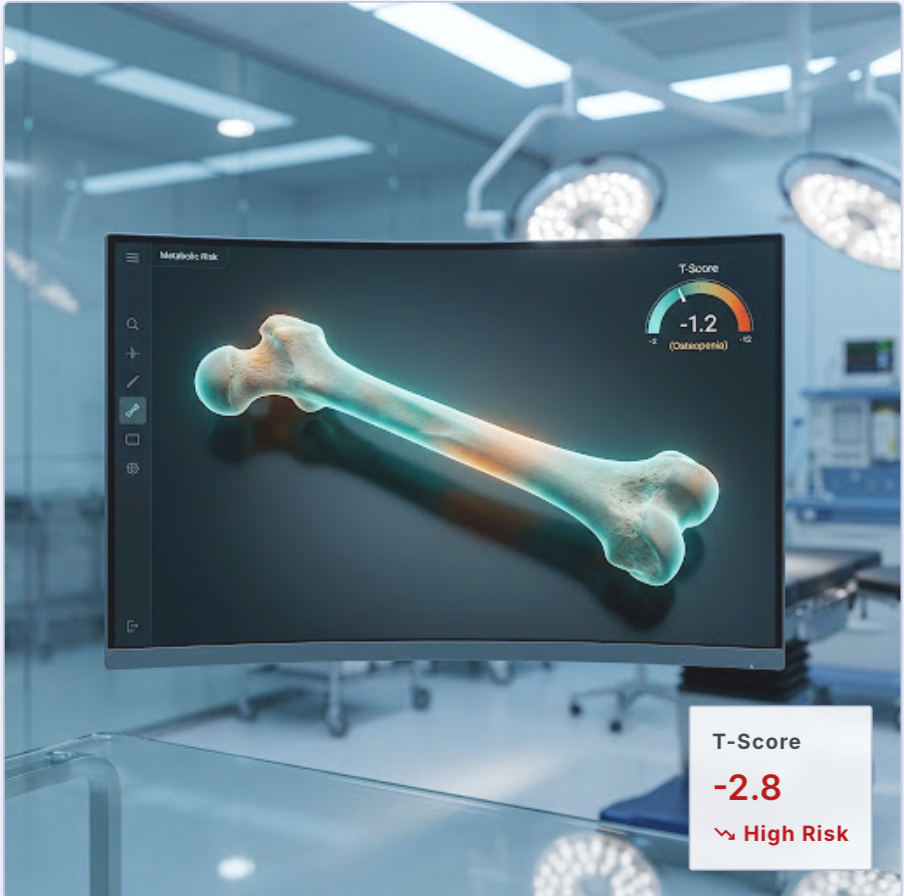
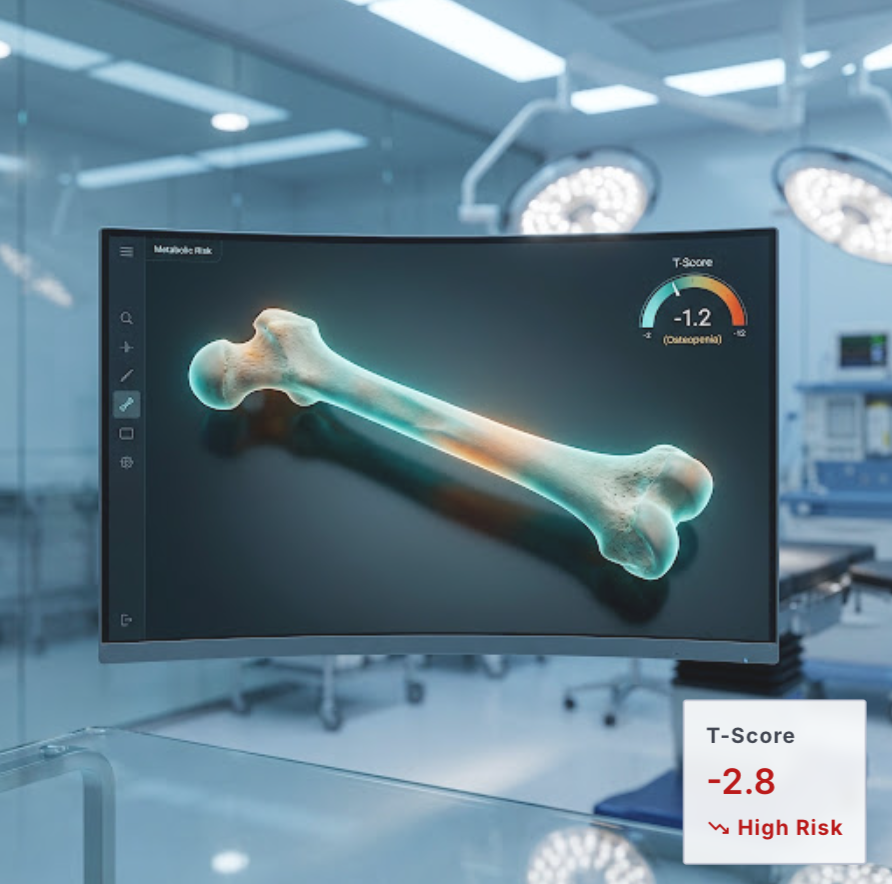
fix(ui): crop white border margins from hero image and apply dark slate wrapper

diff --git a/src/components/views/Landing/LandingView.jsx b/src/components/views/Landing/LandingView.jsx
@@ -106,9 +106,9 @@ export default function LandingView({ onStart }) {
             <div className="absolute -top-10 -left-10 w-56 h-56 bg-blue-400/20 rounded-full blur-3xl" />
             <div className="absolute -bottom-10 -right-10 w-64 h-64 bg-indigo-400/20 rounded-full blur-3xl" />
 
-            <div className="relative bg-white rounded-3xl shadow-2xl shadow-slate-900/15 overflow-hidden border border-slate-200/80 transition-all duration-300 hover:shadow-blue-500/10">
+            <div className="relative bg-slate-950 rounded-3xl shadow-2xl shadow-slate-950/40 overflow-hidden border border-slate-800/90 transition-all duration-300 hover:shadow-blue-500/15">
               {/* Card Window Topbar */}
-              <div className="h-11 bg-gradient-to-r from-slate-900 via-slate-800 to-slate-900 flex items-center justify-between px-5 border-b border-slate-700/60">
+              <div className="h-11 bg-slate-900 flex items-center justify-between px-5 border-b border-slate-800">
                 <div className="flex items-center gap-2">
                   <div className="w-3 h-3 rounded-full bg-red-400/90" />
                   <div className="w-3 h-3 rounded-full bg-amber-400/90" />
@@ -122,29 +122,29 @@ export default function LandingView({ onStart }) {
               </div>
 
               {/* Main Image Container */}
-              <div className="p-4 bg-slate-950">
-                <div className="relative rounded-2xl overflow-hidden border border-slate-800 shadow-inner group">
+              <div className="p-3 bg-slate-950">
+                <div className="relative rounded-2xl overflow-hidden border border-slate-800/80 shadow-2xl bg-slate-950 group">
                   <img
                     src="/hero-bone-display.png"
                     alt="EndoBone AI 3D Surgical Display"
-                    className="w-full h-auto object-cover transform group-hover:scale-[1.02] transition-transform duration-500"
+                    className="w-full h-auto object-cover transform group-hover:scale-[1.02] transition-transform duration-500 rounded-2xl block"
                   />
-                  <div className="absolute inset-0 bg-gradient-to-t from-slate-950/40 via-transparent to-transparent pointer-events-none" />
+                  <div className="absolute inset-0 bg-gradient-to-t from-slate-950/40 via-transparent to-transparent pointer-events-none rounded-2xl" />
                 </div>
 
                 {/* Sub-Metrics Strip */}
-                <div className="grid grid-cols-3 gap-3 mt-4">
-                  <div className="bg-slate-900/90 rounded-xl p-3 border border-slate-800">
+                <div className="grid grid-cols-3 gap-2.5 mt-3">
+                  <div className="bg-slate-900/90 rounded-xl p-3 border border-slate-800/80">
                     <div className="text-[10px] font-bold text-slate-400 uppercase tracking-wide">Overall Risk</div>
                     <div className="text-lg font-black text-red-400 mt-0.5 flex items-baseline gap-1">
                       75% <span className="text-[10px] font-bold text-red-500/80">HIGH</span>
                     </div>
                   </div>
-                  <div className="bg-slate-900/90 rounded-xl p-3 border border-slate-800">
+                  <div className="bg-slate-900/90 rounded-xl p-3 border border-slate-800/80">
                     <div className="text-[10px] font-bold text-slate-400 uppercase tracking-wide">DEXA T-Score</div>
                     <div className="text-lg font-black text-amber-400 mt-0.5">-2.8</div>
                   </div>
-                  <div className="bg-slate-900/90 rounded-xl p-3 border border-slate-800">
+                  <div className="bg-slate-900/90 rounded-xl p-3 border border-slate-800/80">
                     <div className="text-[10px] font-bold text-slate-400 uppercase tracking-wide">AI Confidence</div>
                     <div className="text-lg font-black text-blue-400 mt-0.5">91%</div>
                   </div>
